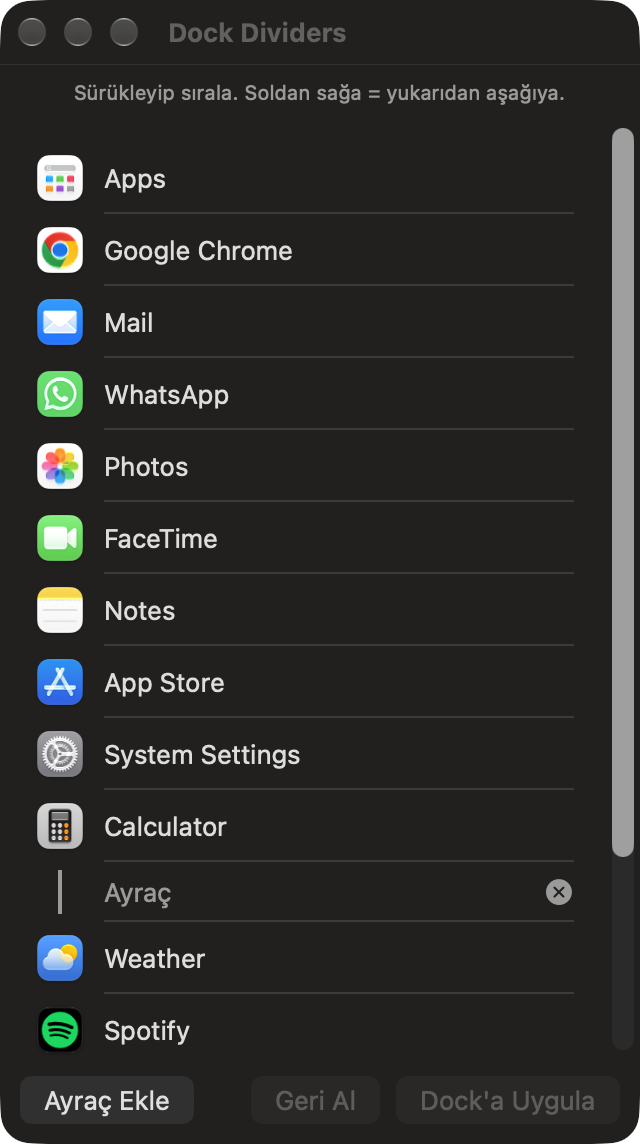
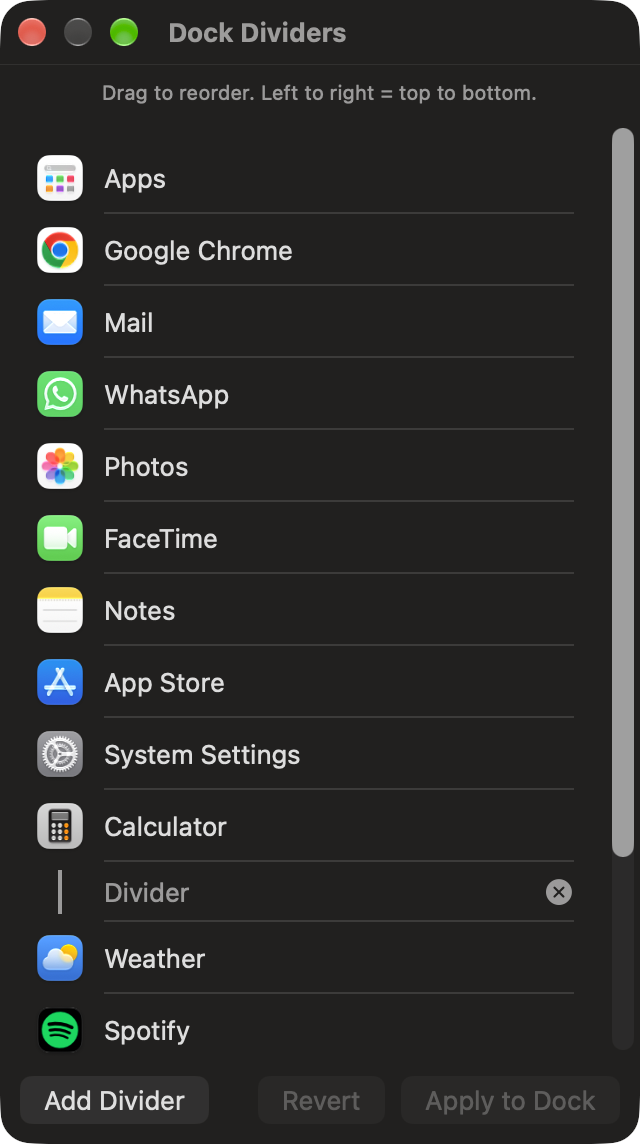
Add English and Turkish UI with a language menu
Follows the Mac's language by default; System / English / Türkçe can be
picked from the menu bar, same scheme as Check Updates.

diff --git a/main.swift b/main.swift
@@ -9,6 +9,34 @@ import SwiftUI
 let dockDomain = "com.apple.dock" as CFString
 let spacerType = "small-spacer-tile"
 
+// MARK: - Language (English + Turkish), same scheme as Check Updates
+
+/// "system" follows the Mac's language; "en" / "tr" force one.
+func isTurkish() -> Bool {
+    switch UserDefaults.standard.string(forKey: "lang") ?? "system" {
+    case "tr": return true
+    case "en": return false
+    default: return Locale.preferredLanguages.first?.hasPrefix("tr") ?? false
+    }
+}
+
+let strings: [String: (en: String, tr: String)] = [
+    "divider": ("Divider", "Ayraç"),
+    "removeDivider": ("Remove divider", "Ayracı kaldır"),
+    "hint": ("Drag to reorder. Left to right = top to bottom.", "Sürükleyip sırala. Soldan sağa = yukarıdan aşağıya."),
+    "addDivider": ("Add Divider", "Ayraç Ekle"),
+    "revert": ("Revert", "Geri Al"),
+    "apply": ("Apply to Dock", "Dock'a Uygula"),
+    "edit": ("Edit…", "Düzenle…"),
+    "grant": ("Grant Accessibility Access…", "Erişilebilirlik İzni Ver…"),
+    "login": ("Open at Login", "Girişte Başlat"),
+    "language": ("Language", "Dil"),
+    "system": ("System", "Sistem"),
+    "quit": ("Quit", "Çık"),
+]
+
+func t(_ key: String) -> String { strings[key].map { isTurkish() ? $0.tr : $0.en } ?? key }
+
 // MARK: - Dock preferences
 
 func persistentApps() -> [Any] {
@@ -170,10 +198,10 @@ struct TileRow: View {
         if isSpacer(tile.raw) {
             HStack {
                 Rectangle().fill(.secondary).frame(width: 2, height: 22).frame(width: 28)
-                Text("Ayraç").foregroundStyle(.secondary)
+                Text(t("divider")).foregroundStyle(.secondary)
                 Spacer()
                 Button(action: onRemove) { Image(systemName: "xmark.circle.fill") }
-                    .buttonStyle(.borderless).foregroundStyle(.secondary).help("Ayracı kaldır")
+                    .buttonStyle(.borderless).foregroundStyle(.secondary).help(t("removeDivider"))
             }
         } else {
             HStack {
@@ -189,17 +217,17 @@ struct EditorView: View {
     @ObservedObject var model: EditorModel
     var body: some View {
         VStack(spacing: 0) {
-            Text("Sürükleyip sırala. Soldan sağa = yukarıdan aşağıya.")
+            Text(t("hint"))
                 .font(.caption).foregroundStyle(.secondary).padding(8)
             List {
                 ForEach(model.tiles) { t in TileRow(tile: t) { model.remove(t) } }
                     .onMove { model.tiles.move(fromOffsets: $0, toOffset: $1); model.dirty = true }
             }
             HStack {
-                Button("Ayraç Ekle") { model.addDivider() }
+                Button(t("addDivider")) { model.addDivider() }
                 Spacer()
-                Button("Geri Al") { model.load() }.disabled(!model.dirty)
-                Button("Dock'a Uygula") { model.apply() }.keyboardShortcut(.defaultAction).disabled(!model.dirty)
+                Button(t("revert")) { model.load() }.disabled(!model.dirty)
+                Button(t("apply")) { model.apply() }.keyboardShortcut(.defaultAction).disabled(!model.dirty)
             }.padding(10)
         }
         .frame(minWidth: 280, minHeight: 360)
@@ -230,15 +258,23 @@ final class AppDelegate: NSObject, NSApplicationDelegate, NSMenuDelegate {
 
     func menuNeedsUpdate(_ menu: NSMenu) {
         menu.removeAllItems()
-        menu.addItem(withTitle: "Düzenle…", action: #selector(showEditor), keyEquivalent: "e").target = self
+        menu.addItem(withTitle: t("edit"), action: #selector(showEditor), keyEquivalent: "e").target = self
         menu.addItem(.separator())
         if !AXIsProcessTrusted() {
-            menu.addItem(withTitle: "Erişilebilirlik İzni Ver…", action: #selector(openAccessibility), keyEquivalent: "").target = self
+            menu.addItem(withTitle: t("grant"), action: #selector(openAccessibility), keyEquivalent: "").target = self
         }
-        let login = menu.addItem(withTitle: "Girişte Başlat", action: #selector(toggleLogin), keyEquivalent: "")
+        let login = menu.addItem(withTitle: t("login"), action: #selector(toggleLogin), keyEquivalent: "")
         login.target = self
         login.state = SMAppService.mainApp.status == .enabled ? .on : .off
-        menu.addItem(withTitle: "Çık", action: #selector(NSApplication.terminate(_:)), keyEquivalent: "q")
+        let langMenu = NSMenu()
+        for (code, title) in [("system", t("system")), ("en", "English"), ("tr", "Türkçe")] {
+            let item = langMenu.addItem(withTitle: title, action: #selector(setLanguage(_:)), keyEquivalent: "")
+            item.target = self
+            item.representedObject = code
+            item.state = (UserDefaults.standard.string(forKey: "lang") ?? "system") == code ? .on : .off
+        }
+        menu.addItem(withTitle: t("language"), action: nil, keyEquivalent: "").submenu = langMenu
+        menu.addItem(withTitle: t("quit"), action: #selector(NSApplication.terminate(_:)), keyEquivalent: "q")
     }
 
     var editor: NSWindow?
@@ -262,6 +298,14 @@ final class AppDelegate: NSObject, NSApplicationDelegate, NSMenuDelegate {
     // Opening the app again from Finder/Launchpad shows the editor.
     func applicationShouldHandleReopen(_ sender: NSApplication, hasVisibleWindows: Bool) -> Bool {
         showEditor(); return false
+    }
+
+    @objc func setLanguage(_ sender: NSMenuItem) {
+        UserDefaults.standard.set(sender.representedObject as? String, forKey: "lang")
+        // Rebuild the editor so its texts switch language.
+        let wasOpen = editor?.isVisible ?? false
+        editor?.close(); editor = nil
+        if wasOpen { showEditor() }
     }
 
     @objc func openAccessibility() {

diff --git a/README.md b/README.md
@@ -15,10 +15,10 @@
 
 <table>
   <tr>
-    <td width="40%"><img src="docs/screenshot-editor.png" alt="Editor window: Dock apps in a list with a divider row between Calculator and Weather, Add Divider and Apply buttons"></td>
+    <td width="40%"><img src="docs/screenshot-editor.png" alt="Editor window: Dock apps in a list with a divider row between Calculator and Weather, Add Divider and Apply to Dock buttons"></td>
     <td>
-      <b>Drag to arrange</b><br>
-      Every Dock app and divider in one list. Drag a divider between any two apps, or drag an app between two dividers, then press <b>Dock'a Uygula</b> (Apply).<br><br>
+      <b>Drag to arrange</b> · English / Türkçe<br>
+      Every Dock app and divider in one list. Drag a divider between any two apps, or drag an app between two dividers, then press <b>Apply to Dock</b>.<br><br>
       <b>Sürükle, sırala</b><br>
       Dock'taki tüm uygulamalar ve ayraçlar tek listede. Ayracı istediğin iki uygulamanın arasına, uygulamayı iki ayracın arasına sürükle, sonra <b>Dock'a Uygula</b>'ya bas.
     </td>
@@ -42,11 +42,11 @@ Kurulumdan sonra **Sistem Ayarları → Gizlilik ve Güvenlik → Erişilebilirl
 
 ## How it works
 
-1. **Ayraç Ekle** (Add Divider) inserts Apple's own `small-spacer-tile` into the Dock: a half-icon-wide gap.
+1. **Add Divider** inserts Apple's own `small-spacer-tile` into the Dock: a half-icon-wide gap.
 2. The app reads each spacer's position through the Accessibility API (`AXSpacerDockItem`).
 3. A transparent, click-through window draws a thin line over each spacer, styled like the built-in separator and matching light/dark mode.
 
-It runs from the menu bar (vertical line icon): **Düzenle…** opens the editor, **Girişte Başlat** starts it at login.
+It runs from the menu bar (vertical line icon): **Edit…** opens the editor, **Open at Login** starts it at login, **Language** switches between System, English and Türkçe.
 
 ## Limits
 
